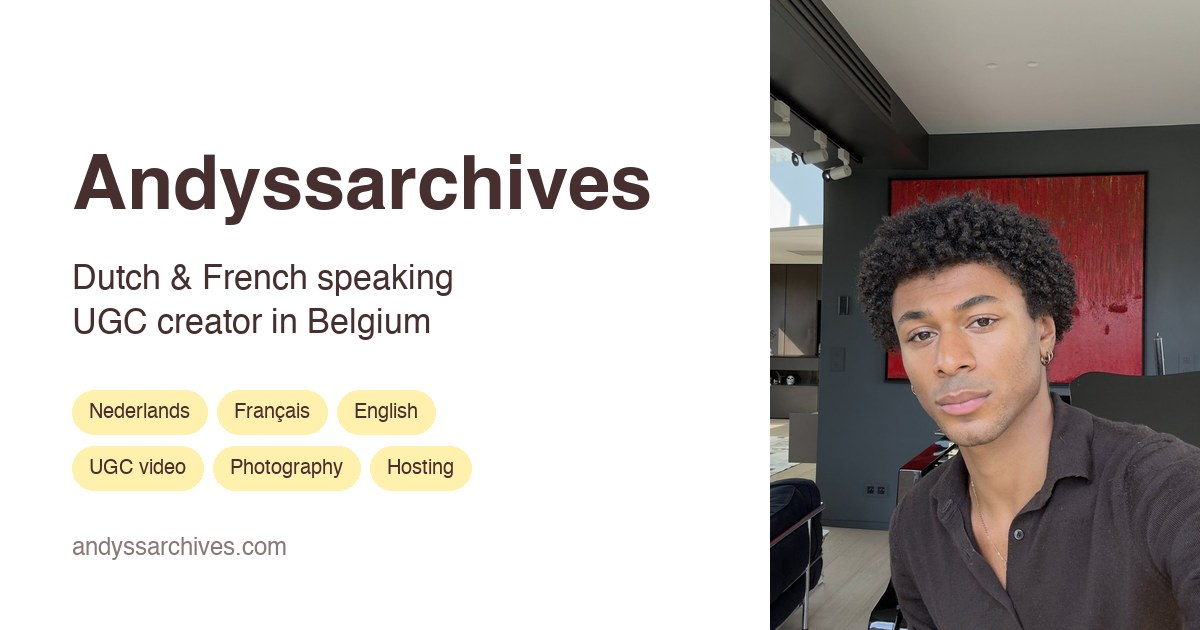
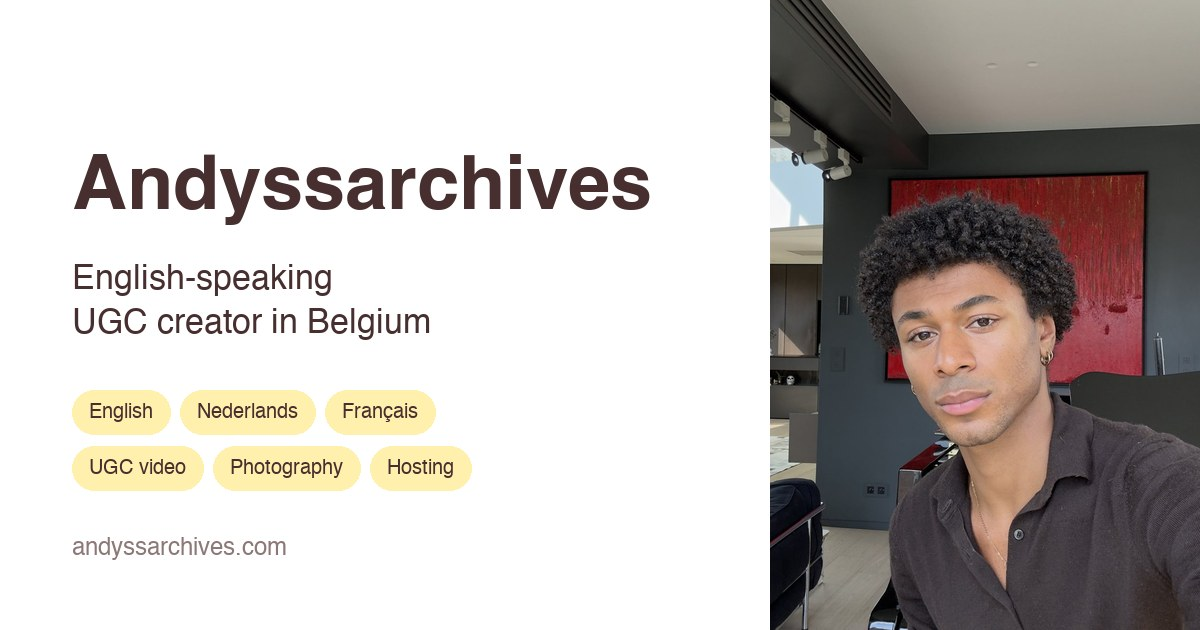
feat(admin): protect the admin with a password and add the Perfume tag
Positioning: English is the offer, Dutch and French are additional. Retitles
the page, rewrites the description, hero intro, About specs and services line,
reorders knowsLanguage in the structured data, and regenerates the share image.
The Dutch and French terms stay in the copy so those searches still land.

Adds a Perfume chip and tags the three fragrance pieces (both Armani, The
Perfumist). The admin can now create tags too — it could only toggle existing
ones, which is what forced this to be a hand edit.

Admin is password-gated. ADMIN_PASSWORD is read from .env at the repo root,
which is git-ignored, so the secret never enters the repo; the server refuses
to start without it. Loopback binding is still the real protection — the
session cookie is not Secure because localhost has no TLS.

Two save guards, both prompted by real damage:
- Version check. A page that loaded before someone else's edit silently
  overwrote it — a stale tab discarded a tag change that way. Saves now carry
  a fingerprint of the script.js they read and are refused if it moved on.
- Empty lists are refused. A malformed request emptied the whole VIDEOS array;
  the UI never sends an empty list, so it can only be a mistake.

Changed region(s): [[0.0617, 0.4222, 0.4008, 0.4825], [0.0617, 0.6032, 0.37, 0.6937]]

diff --git a/index.html b/index.html
@@ -3,15 +3,15 @@
 <head>
   <meta charset="utf-8" />
   <meta name="viewport" content="width=device-width,initial-scale=1,viewport-fit=cover" />
-  <meta name="description" content="Dutch- and French-speaking UGC creator based in Belgium, working across the EU. Bilingual, mixed-race talent making story-first vertical content for tech, wellness and lifestyle brands — plus in-person event hosting." />
+  <meta name="description" content="English-speaking UGC creator based in Belgium, working across the EU. Story-first vertical content for tech, wellness and lifestyle brands — and Dutch and French when a campaign needs them." />
   <meta name="theme-color" content="#ffffff" />
   <meta name="google-site-verification" content="6FhzhZdss9te-JG7B4ymGQOIffr_GMS7uFYWLRq0VKo" />
-  <title>Dutch &amp; French Speaking UGC Creator in Belgium | Andyssarchives</title>
+  <title>English-Speaking UGC Creator in Belgium | Andyssarchives</title>
 
   <meta property="og:type" content="profile" />
   <meta property="og:site_name" content="Andyssarchives" />
-  <meta property="og:title" content="Dutch &amp; French Speaking UGC Creator in Belgium" />
-  <meta property="og:description" content="Dutch- and French-speaking UGC creator based in Belgium, working across the EU. Bilingual, mixed-race talent making story-first vertical content for tech, wellness and lifestyle brands — plus in-person event hosting." />
+  <meta property="og:title" content="English-Speaking UGC Creator in Belgium" />
+  <meta property="og:description" content="English-speaking UGC creator based in Belgium, working across the EU. Story-first vertical content for tech, wellness and lifestyle brands — and Dutch and French when a campaign needs them." />
   <meta property="og:url" content="https://andyssarchives.com/" />
   <meta property="og:image" content="https://andyssarchives.com/assets/og.jpg" />
   <meta property="og:image:width" content="1200" />
@@ -20,8 +20,8 @@
   <meta property="og:locale:alternate" content="nl_BE" />
   <meta property="og:locale:alternate" content="fr_BE" />
   <meta name="twitter:card" content="summary_large_image" />
-  <meta name="twitter:title" content="Dutch &amp; French Speaking UGC Creator in Belgium" />
-  <meta name="twitter:description" content="Dutch- and French-speaking UGC creator based in Belgium, working across the EU. Bilingual, mixed-race talent making story-first vertical content for tech, wellness and lifestyle brands — plus in-person event hosting." />
+  <meta name="twitter:title" content="English-Speaking UGC Creator in Belgium" />
+  <meta name="twitter:description" content="English-speaking UGC creator based in Belgium, working across the EU. Story-first vertical content for tech, wellness and lifestyle brands — and Dutch and French when a campaign needs them." />
   <meta name="twitter:image" content="https://andyssarchives.com/assets/og.jpg" />
 
   <link rel="canonical" href="https://andyssarchives.com/" />
@@ -45,11 +45,11 @@
     "image": "https://andyssarchives.com/assets/photos/web/portrait.jpg",
     "email": "mailto:andysarchive@gmail.com",
     "jobTitle": "UGC Creator",
-    "description": "Dutch- and French-speaking UGC creator based in Belgium, working across the EU.",
+    "description": "English-speaking UGC creator based in Belgium, working across the EU; also works in Dutch and French.",
     "knowsLanguage": [
+      { "@type": "Language", "name": "English", "alternateName": "en" },
       { "@type": "Language", "name": "Dutch", "alternateName": "nl" },
-      { "@type": "Language", "name": "French", "alternateName": "fr" },
-      { "@type": "Language", "name": "English", "alternateName": "en" }
+      { "@type": "Language", "name": "French", "alternateName": "fr" }
     ],
     "address": { "@type": "PostalAddress", "addressCountry": "BE" },
     "workLocation": { "@type": "Place", "name": "Belgium" },
@@ -60,7 +60,7 @@
     ],
     "makesOffer": [
       { "@type": "Offer", "itemOffered": { "@type": "Service", "name": "UGC video production", "areaServed": "EU" } },
-      { "@type": "Offer", "itemOffered": { "@type": "Service", "name": "Bilingual content creation (Dutch / French)", "areaServed": "EU" } },
+      { "@type": "Offer", "itemOffered": { "@type": "Service", "name": "English-language content creation", "areaServed": "EU" } },
       { "@type": "Offer", "itemOffered": { "@type": "Service", "name": "Photography", "areaServed": "EU" } },
       { "@type": "Offer", "itemOffered": { "@type": "Service", "name": "Event hosting and presenting", "areaServed": "BE" } }
     ]
@@ -119,9 +119,9 @@
         <div class="hero__intro">
           <p class="hero__introLabel">Intro</p>
           <p class="hero__introBody">
-            Dutch- and French-speaking UGC creator based in Belgium, working across the EU.
-            5+ years of natural, story-first content for tech, wellness and lifestyle brands
-            — plus in-person hosting when a brand needs a face in the room.
+            English-speaking UGC creator based in Belgium, working across the EU. 5+ years of
+            natural, story-first content for tech, wellness and lifestyle brands — in English
+            first, and in Dutch or French when a campaign needs them.
           </p>
         </div>
 
@@ -270,7 +270,7 @@
         <h2>Who you&rsquo;re<br />working with</h2>
 
         <dl class="specs">
-          <div><dt>Languages</dt><dd>Dutch (native) · French · English</dd></div>
+          <div><dt>Languages</dt><dd>English · Dutch (native) · French</dd></div>
           <div><dt>Based</dt><dd>Belgium</dd></div>
           <div><dt>Available</dt><dd>Across Belgium &amp; the EU, remote worldwide</dd></div>
           <div><dt>Casting</dt><dd>Mixed race</dd></div>
@@ -286,7 +286,7 @@
 
           <ul class="card-offer__list">
             <li>UGC creation &amp; ideation</li>
-            <li>Bilingual content — Dutch &amp; French</li>
+            <li>English-language content — plus Dutch &amp; French</li>
             <li>Creative strategy</li>
             <li>Photography</li>
             <li>Event hosting &amp; presenting</li>

diff --git a/script.js b/script.js
@@ -12,20 +12,20 @@
    cats  : any of the chip ids in CATEGORIES below
 ---------------------------------------------------------------- */
 const VIDEOS = [
-  { file:'Andy_YSL_Reel_V3',     title:'Yves Saint Laurent',        cats:['beauty','fashion'] },
-  { file:'C1_Armani_V1',         title:'Emporio Armani · Signature Scent', cats:['fashion','beauty'] },
+  { file:'Andy_YSL_Reel_V3',     title:'Yves Saint Laurent',        cats:[] },
+  { file:'C1_Armani_V1',         title:'Emporio Armani · Signature Scent', cats:['perfume','fashion','beauty'] },
   { file:'BIOTHERM_V1_NT',       title:'Biotherm · Life Plankton',  cats:['beauty'] },
   { file:'Biotherm_Final',       title:'Biotherm · Sunday Selfcare', cats:['beauty','lifestyle'] },
   { file:'BiodermaXAndy',        title:'Bioderma · Serum',          cats:['beauty','voiceover'] },
-  { file:'BiodermaV3',           title:'Bioderma',                  cats:['beauty'] },
-  { file:'BiodermaXSparkAds',    title:'Bioderma · Spark Ads',      cats:['beauty'] },
+  { file:'BiodermaV3',           title:'Bioderma',                  cats:['beauty','voiceover'] },
+  { file:'BiodermaXSparkAds',    title:'Bioderma · Spark Ads',      cats:['beauty','voiceover'] },
   { file:'C_LAROCHE_FINAL',      title:'La Roche-Posay · Skincare Routine', cats:['beauty','voiceover'] },
   { file:'EFFECLAR_V1',          title:'La Roche-Posay · Effaclar', cats:['beauty'] },
   { file:'LAROCHE_V2',           title:'La Roche-Posay',            cats:['beauty'] },
   { file:'Eucerin_V1',           title:'Eucerin',                   cats:['beauty','lifestyle'] },
   { file:'C1_KRUIDVAT_V1',       title:'Kruidvat · Skincare Routine', cats:['beauty','travel'] },
   { file:'C2_GLUED_V2',          title:'got2b Glued',                cats:['haircare'] },
-  { file:'INDEED_SIGN_V2',       title:'Indeed · Sign',             cats:['software','lifestyle'] },
+  { file:'INDEED_SIGN_V2',       title:'Indeed · Sign',             cats:['software'] },
   { file:'INDEED_TOTEBAG_V2',    title:'Indeed · Tote Bag',         cats:['software','voiceover'] },
   { file:'C_INDEED_SAVINGS_V3',  title:'Indeed · Savings',          cats:['software','interview'] },
   { file:'INTERVIEW_03_SUB',     title:'Street Interview · Careers', cats:['interview','software'] },
@@ -33,8 +33,8 @@ const VIDEOS = [
   { file:'C1_Wallpaper_V1',      title:'Travel Wallpaper',          cats:['software','lifestyle'] },
   { file:'MorningRoutine_V3',    title:'3 Productive Morning Habits', cats:['lifestyle'] },
   { file:'MixBrussels',          title:'Mix Brussels',              cats:['travel','lifestyle'] },
-  { file:'C_ARMANI_V1C',         title:'Emporio Armani · Stronger With You', cats:['fashion','beauty'] },
-  { file:'C_THEPERFUMIST_V2',    title:'The Perfumist · GRWM Beach Edition', cats:['beauty','lifestyle'] },
+  { file:'C_ARMANI_V1C',         title:'Emporio Armani · Stronger With You', cats:['perfume','fashion','beauty'] },
+  { file:'C_THEPERFUMIST_V2',    title:'The Perfumist · GRWM Beach Edition', cats:['perfume','beauty','lifestyle'] },
   { file:'C_kruidvat_V2',        title:'Kruidvat · Sun Essentials', cats:['beauty','lifestyle'] },
 ];
 
@@ -43,6 +43,7 @@ const CATEGORIES = [
   { id:'all',       label:'All' },
   { id:'beauty',    label:'Beauty' },
   { id:'fashion',   label:'Fashion' },
+  { id:'perfume',   label:'Perfume' },
   { id:'travel',    label:'Travel' },
   { id:'lifestyle', label:'Lifestyle' },
   { id:'interview', label:'Interview' },

diff --git a/tools/admin.html b/tools/admin.html
@@ -76,6 +76,9 @@ input[type=text]:focus{outline:2px solid var(--ink);outline-offset:1px;border-co
   <button class="btn btn--ghost" id="revert">Revert</button>
   <button class="btn" id="save">Save</button>
   <button class="btn btn--dark" id="deploy">Save &amp; publish</button>
+  <form method="POST" action="/api/logout" style="margin:0">
+    <button class="btn btn--ghost" type="submit" title="Sign out">Lock</button>
+  </form>
 </div>
 
 <main>
@@ -88,7 +91,13 @@ input[type=text]:focus{outline:2px solid var(--ink);outline-offset:1px;border-co
     <input type="file" id="file" accept="video/*" multiple hidden />
   </div>
 
-  <h2 style="margin-top:30px">Videos — drag to reorder</h2>
+  <h2 style="margin-top:30px;display:flex;align-items:center;gap:10px">
+    <span>Videos — drag to reorder</span>
+    <span class="spacer" style="flex:1"></span>
+    <input type="text" id="newtag" placeholder="new tag…" style="width:150px;padding:5px 11px;
+      font-size:12px;text-transform:none;letter-spacing:normal">
+    <button class="btn btn--ghost" id="addtag" style="padding:5px 14px;font-size:12px">Add tag</button>
+  </h2>
   <ul id="list"></ul>
 
   <div id="log"></div>
@@ -100,6 +109,7 @@ let state = null;      // as loaded from the server
 let videos = [];       // working copy
 let featured = null;
 let clean = '';        // snapshot for the dirty check
+let version = null;    // fingerprint of the script.js this page loaded
 
 const snapshot = () => JSON.stringify({ videos, featured });
 const isDirty = () => snapshot() !== clean;
@@ -119,6 +129,7 @@ async function api(path, opts) {
 
 function adopt(s) {
   state = s;
+  version = s.version;
   videos = s.videos.map((v) => ({ ...v, cats: [...v.cats] }));
   featured = s.featured;
   clean = snapshot();
@@ -240,12 +251,32 @@ async function upload(files) {
   $('#file').value = '';
 }
 
+/* ── add a tag ─────────────────────────────────────────────────────── */
+async function addTag() {
+  const input = $('#newtag');
+  const label = input.value.trim();
+  if (!label) return;
+  try {
+    // adding a tag rewrites script.js, so fold in any pending edits first
+    if (isDirty()) await save();
+    adopt(await api('/api/category', {
+      method: 'POST',
+      headers: { 'content-type': 'application/json' },
+      body: JSON.stringify({ label }),
+    }));
+    input.value = '';
+    log(`added the "${label}" tag — it only shows on the site once a video uses it`);
+  } catch (e) { log(`✗ ${e.message}`); }
+}
+$('#addtag').addEventListener('click', addTag);
+$('#newtag').addEventListener('keydown', (e) => { if (e.key === 'Enter') addTag(); });
+
 /* ── save / publish ────────────────────────────────────────────────── */
 async function save() {
   const r = await api('/api/save', {
     method: 'POST',
     headers: { 'content-type': 'application/json' },
-    body: JSON.stringify({ videos, featured }),
+    body: JSON.stringify({ videos, featured, version }),
   });
   adopt(r);
   return r;

diff --git a/README.md b/README.md
@@ -137,8 +137,30 @@ drag it into a new order, choose which one the carousel opens on, publish.**
 - **Save** writes `script.js`. **Save & publish** also runs `build.sh` and `wrangler deploy`.
 - **Revert** throws away unsaved edits and reloads from `script.js`.
 
-It binds to **127.0.0.1** and has no login, because nothing outside this Mac can reach it.
-Don't expose it through a tunnel or change the host without adding authentication first.
+### Password
+
+The admin asks for a password on first visit. It is read from `ADMIN_PASSWORD` in **`.env` at
+the repo root**, which is git-ignored — the password is never in the repo. Without it the server
+refuses to start. To change it, edit `.env` and restart.
+
+```
+ADMIN_PASSWORD=your-password
+```
+
+Sessions are held in memory, so restarting the server signs you out, as does the **Lock** button.
+
+### Two guards on saving
+
+- **Stale writes are refused.** Every page carries a fingerprint of the `script.js` it loaded.
+  If the file changed since then — you edited it by hand, or a second admin tab saved first —
+  the save is rejected with "reload before saving" instead of silently overwriting the newer
+  version. Reload, redo the edit, save.
+- **An empty video list is refused.** The UI never sends one, so it can only mean a bug or a
+  stray request, and accepting it would blank the whole carousel.
+
+It still binds to **127.0.0.1**, and that remains the real protection: the session cookie is not
+marked `Secure`, because there is no TLS on localhost. If you ever expose this through a tunnel,
+put HTTPS in front of it first.
 
 ### Why it's local and not a page on the site
 
